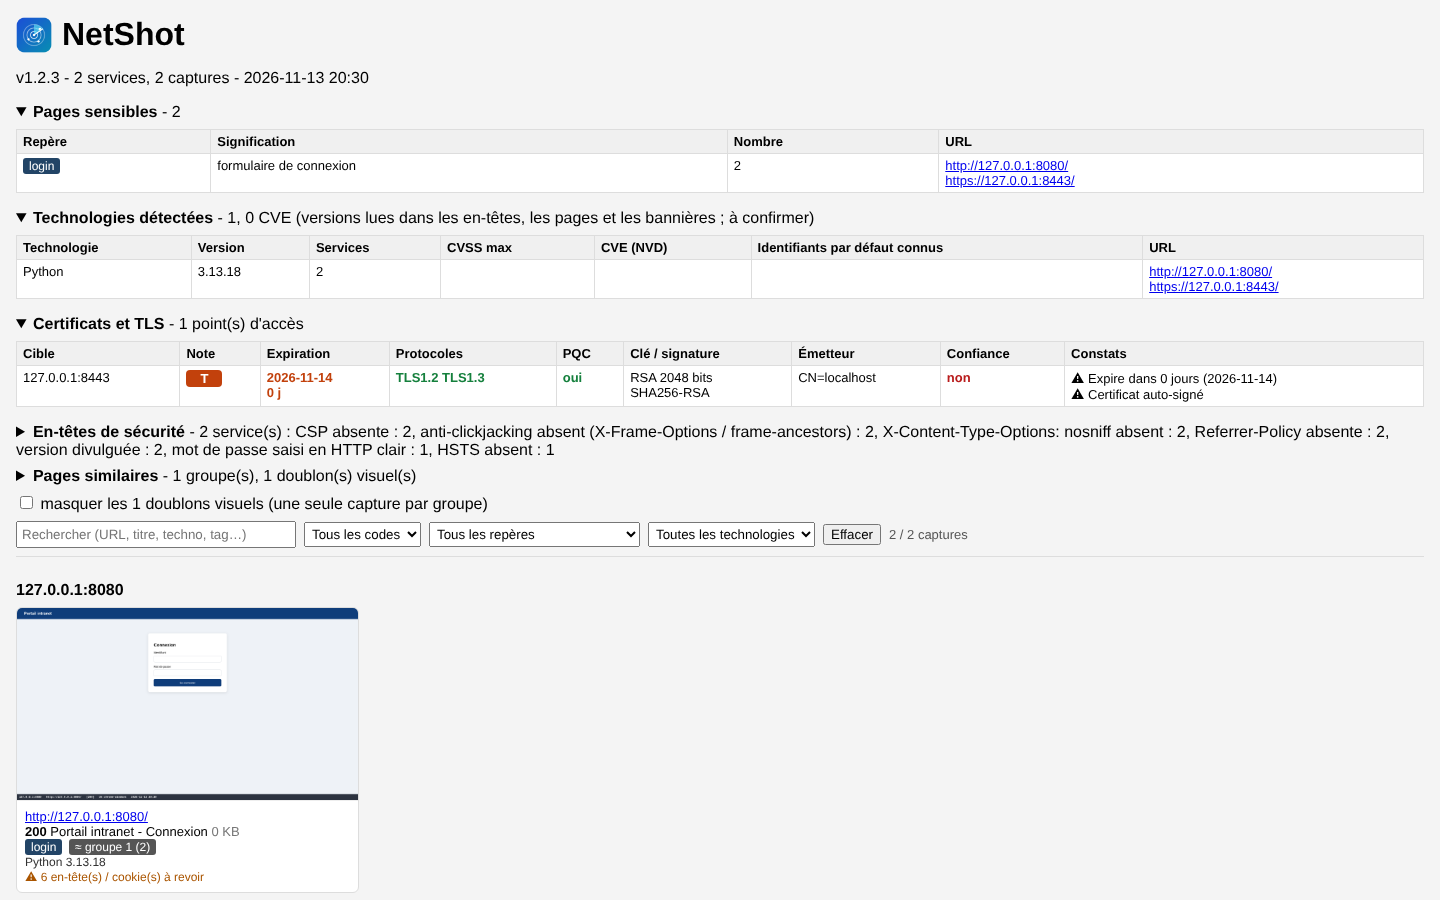
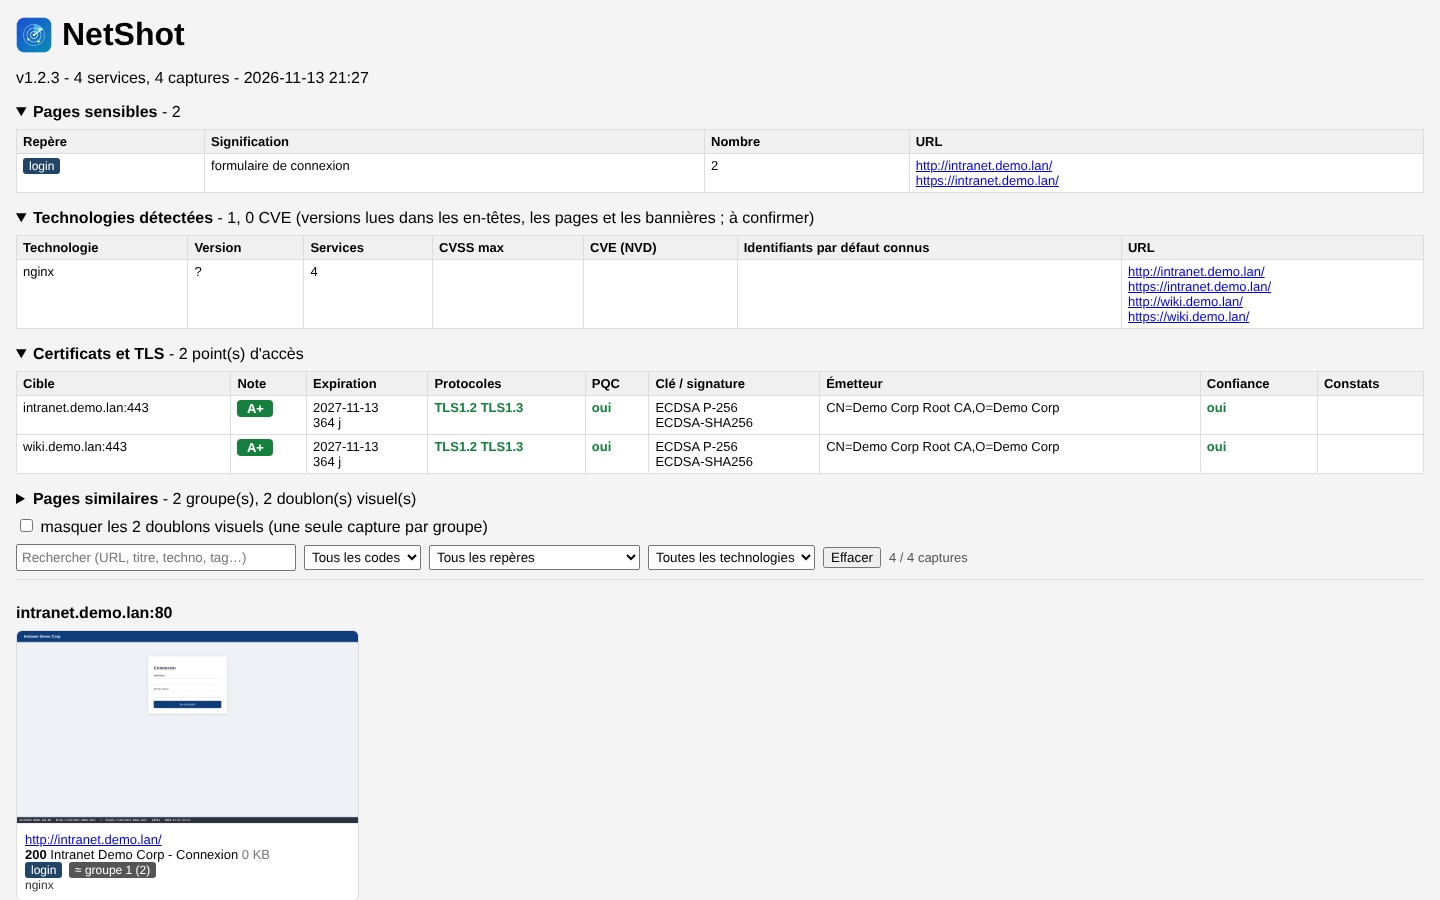
README : captures cohérentes (intranet de démonstration noté A+)
Certificat signé par une autorité interne de confiance, TLS 1.2 AEAD et 1.3, PQC, HSTS :
plus de certificat auto-signé noté T à côté d'un PQC « oui ».

Claude-Session: https://claude.ai/code/session_01DHXZEEBybHgq8eFqwoZAWK

diff --git a/CHANGELOG.md b/CHANGELOG.md
@@ -18,9 +18,12 @@ Nouveau logo « radar », choisi parmi les six pistes proposées.
   couleurs de la version Python (indigo, balayage ambre).
 - Fichiers régénérés : `cmd/netshot/icon.png` (favicon de l'interface et logo du rapport),
   `cmd/netshot/rsrc_windows_amd64.syso` (icône de l'exe), `assets/icon.ico` (16 à 256 px).
-- Captures du README refaites (renommées pour que GitHub ne montre plus l'ancienne image en cache) sur un intranet de démonstration (page de connexion en http et
-  https) : onglet Scan après la capture, et nouvelle capture du rapport HTML du même scan
-  (`docs/netshot-go-rapport.png`).
+- Captures du README refaites sur un intranet de démonstration cohérent : deux sites
+  (`intranet.demo.lan` avec page de connexion, `wiki.demo.lan`), http redirigé vers https,
+  certificat ECDSA P-256 valable un an signé par une autorité interne de confiance, TLS 1.2
+  (suites AEAD seulement) et 1.3, PQC, HSTS et en-têtes de sécurité : note A+. Onglet Scan
+  après la capture, et capture du rapport HTML du même scan. Fichiers renommés
+  (`docs/*-scan.png`, `docs/*-rapport.png`) pour que GitHub ne montre plus l'ancienne image en cache.
 
 ### Fichiers
 - `tools/mkicon/main.go`, `cmd/netshot/icon.png`, `cmd/netshot/rsrc_windows_amd64.syso`,
